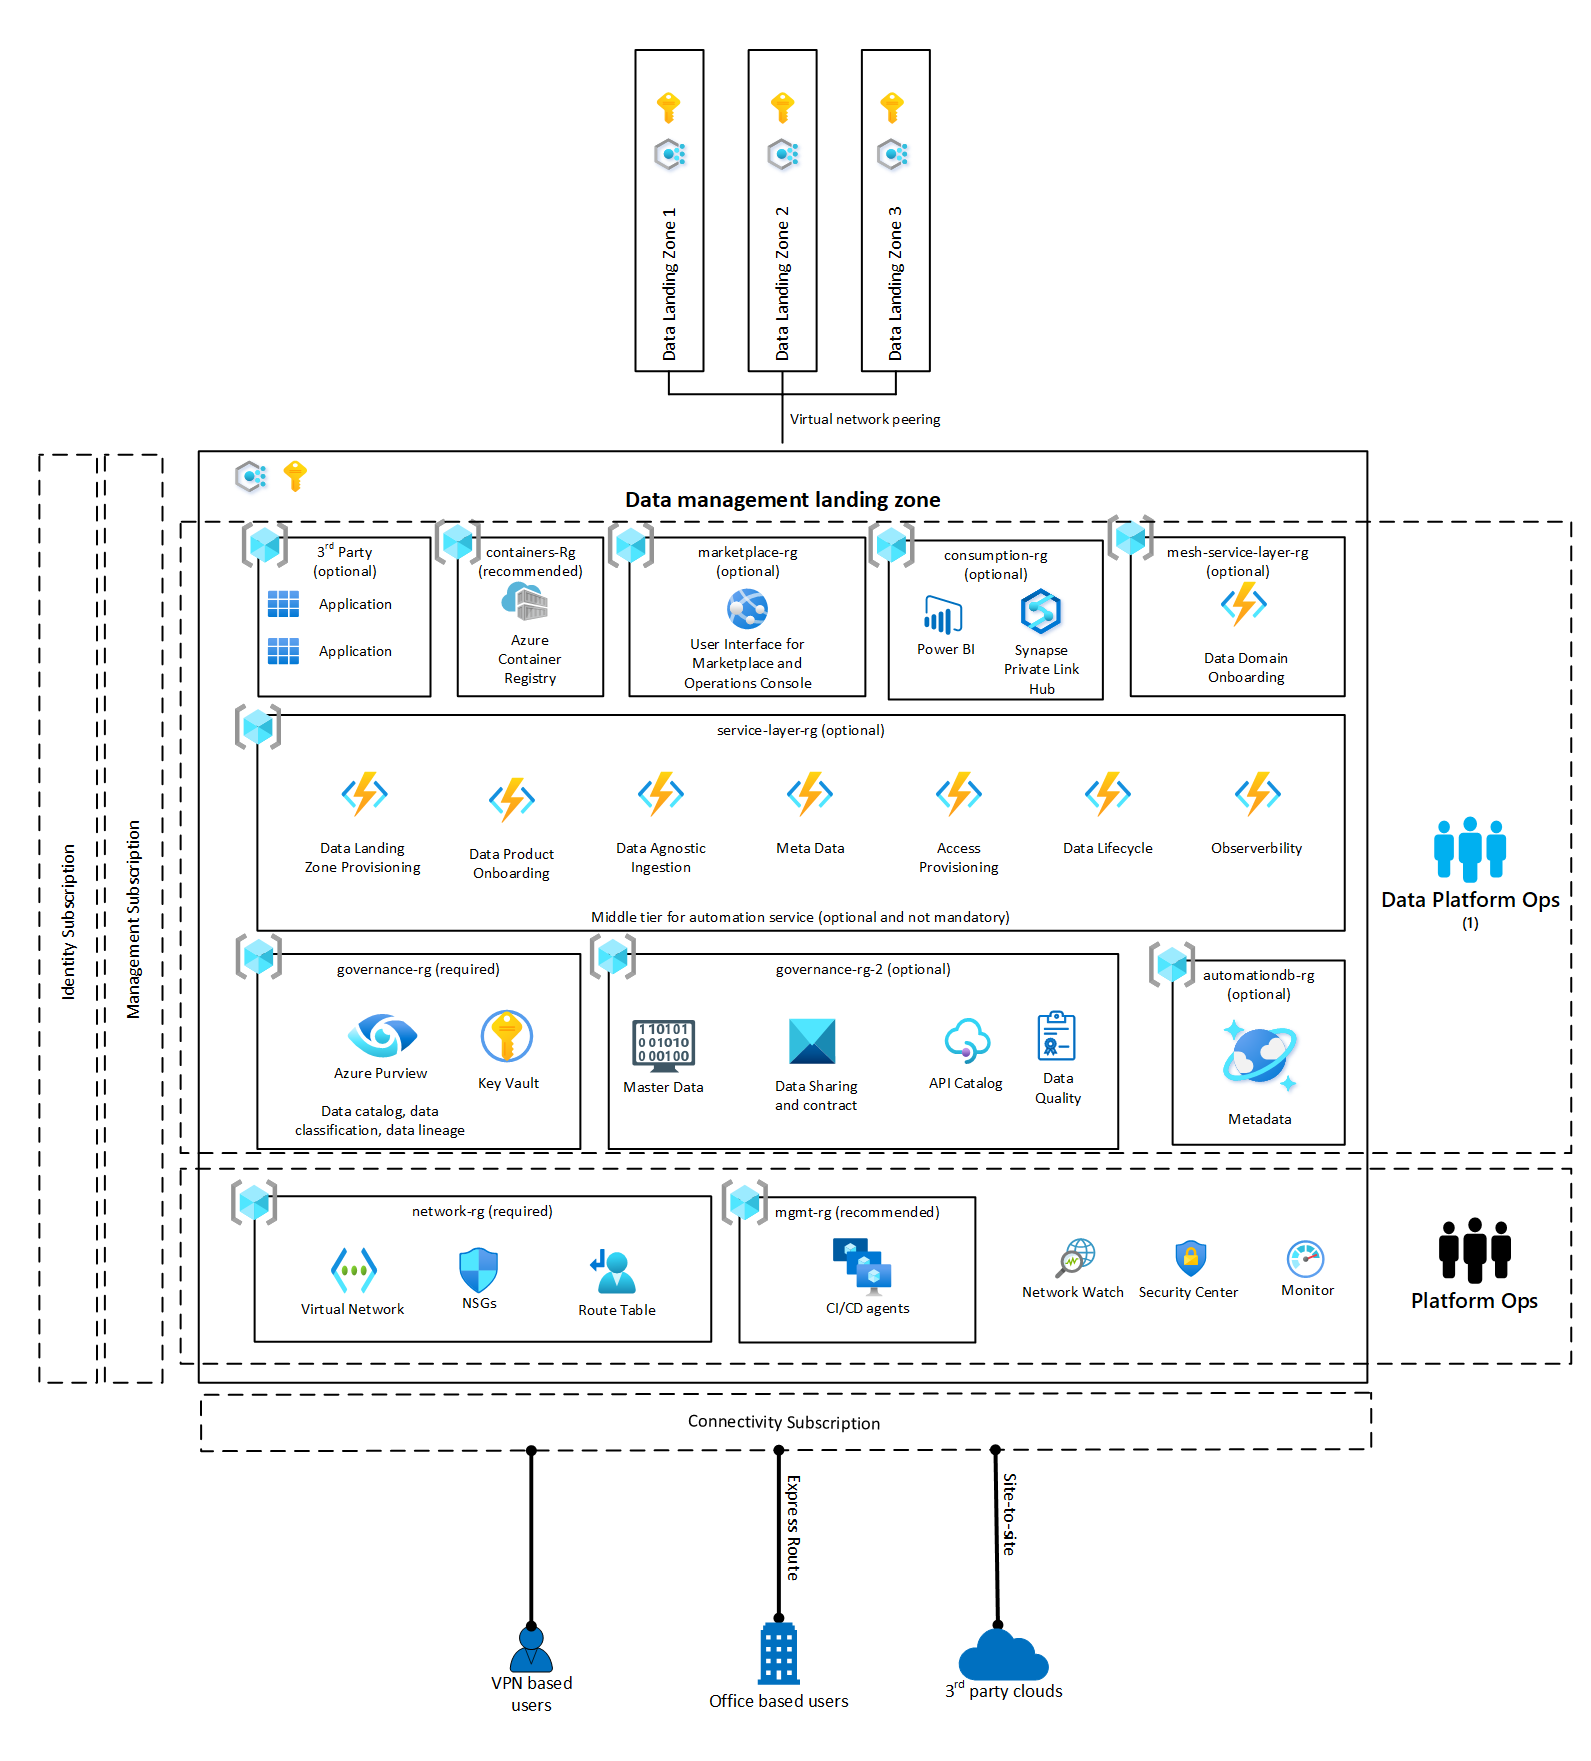
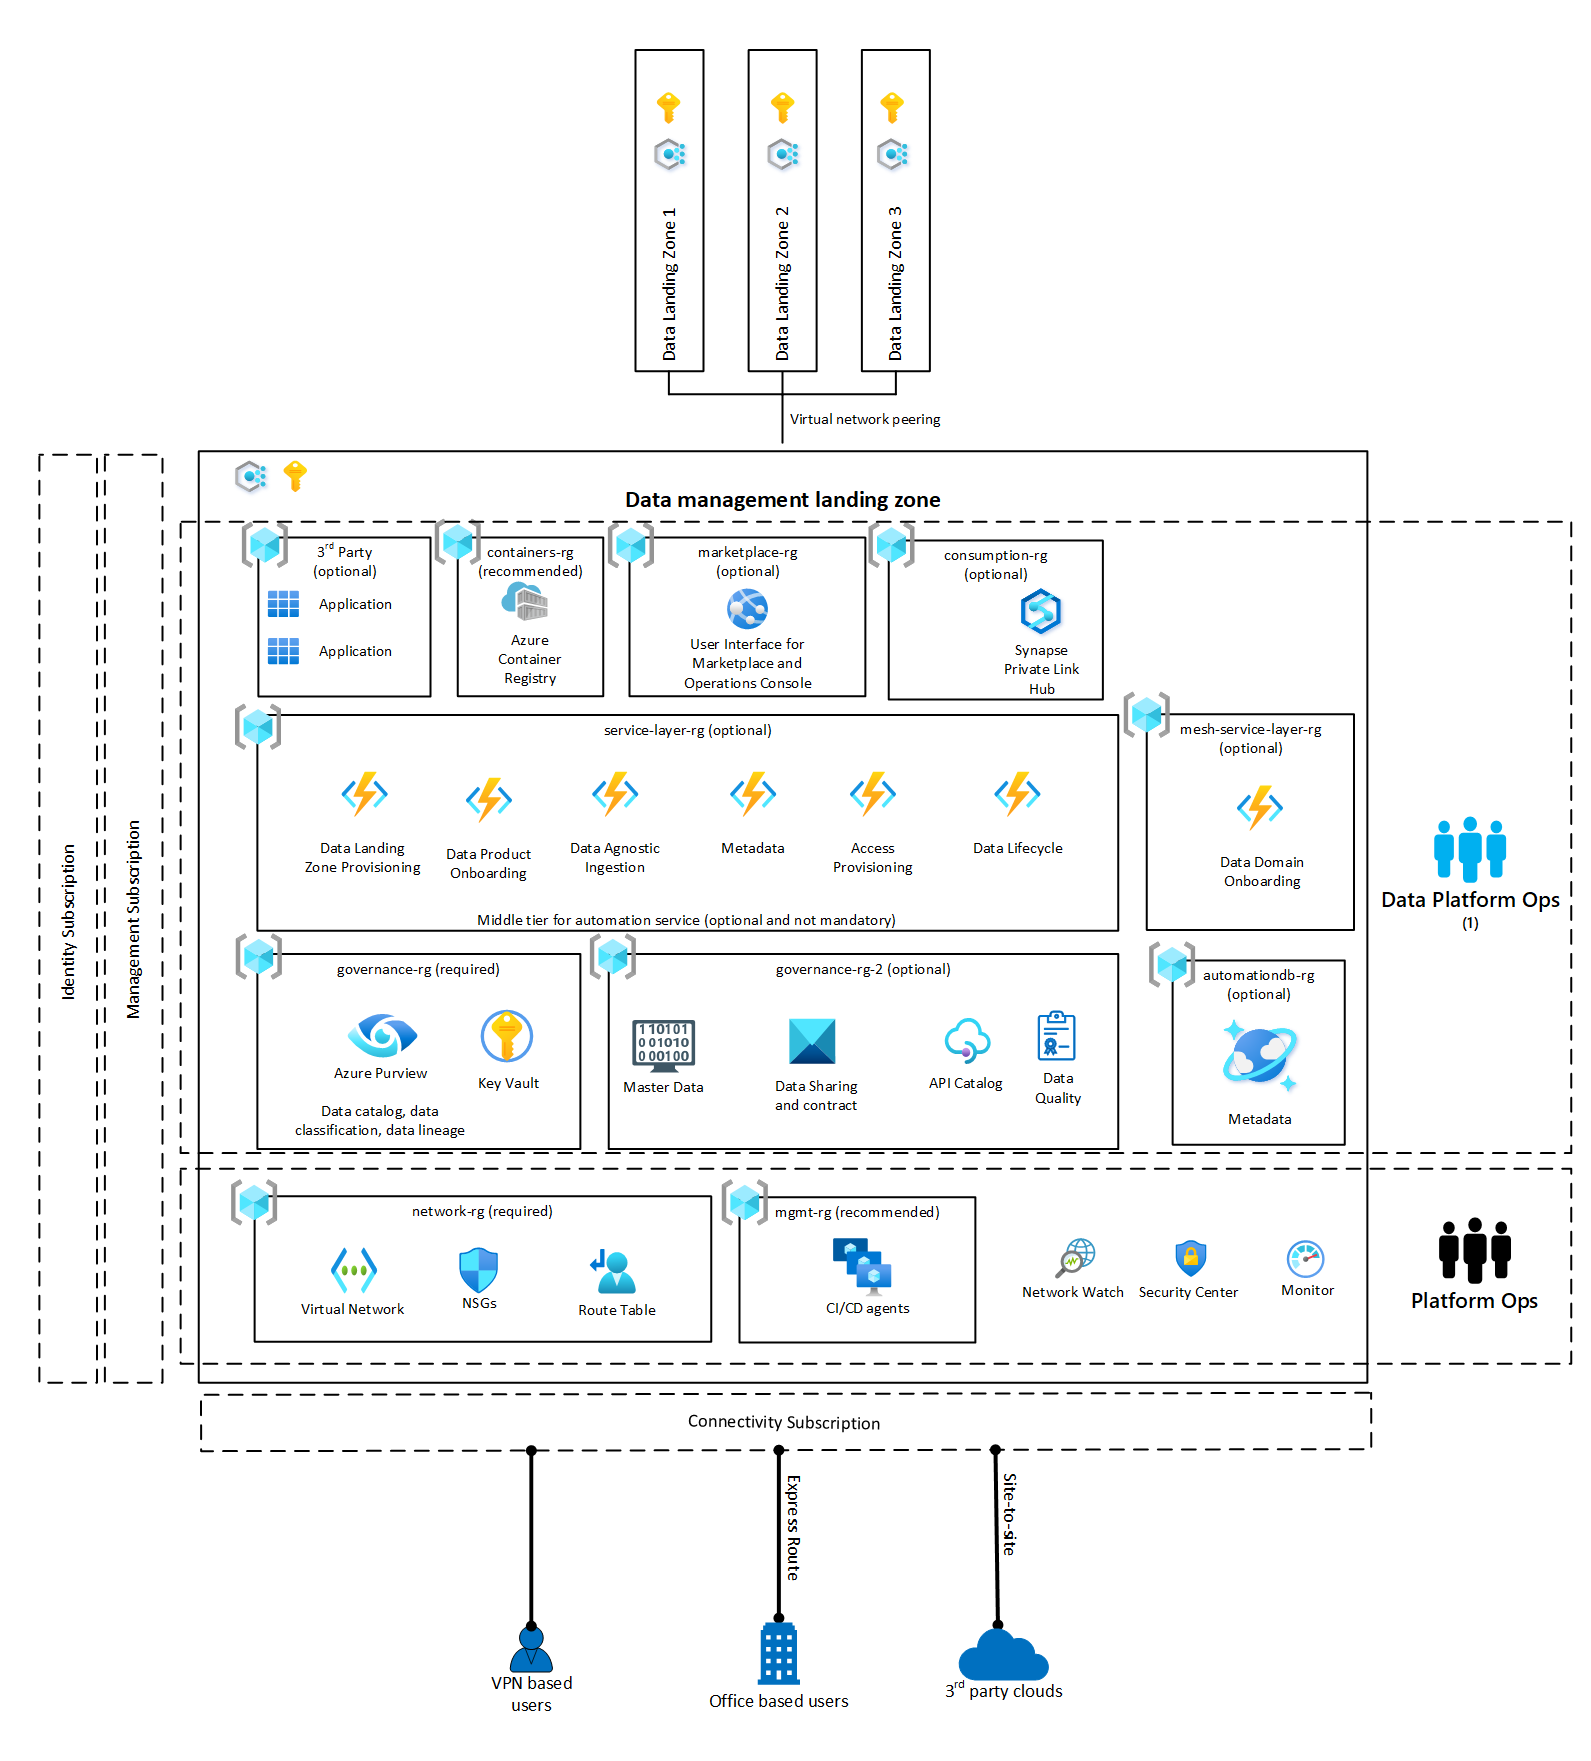
dmlz update

diff --git a/docs/scenarios/data-management/architectures/data-management-landing-zone.md b/docs/scenarios/data-management/architectures/data-management-landing-zone.md
@@ -25,9 +25,11 @@ The data management landing zone is a separate subscription that has the standar
 
 ## Data catalog
 
+*Resource group: governance-rg*
+
 [!INCLUDE [data-catalog](../includes/data-catalog.md)]
 
-- For more information, see [Data Catalog](../govern-data-catalog.md)
+For more information, see [Data Catalog](../govern-data-catalog.md)
 
 ## Data quality management
 
@@ -35,9 +37,11 @@ Enterprises are advised to continue with their current solution.
 
 Data quality should happen as close to the source as possible to avoid quality issues replicating across the analytics and AI estate. Moving quality metrics and validation to the data integration aligns the quality process with the teams that are closest to the data. These teams have the deepest understanding of the data asset. Data lineage also provides data quality confidence and should be provided for all data products and products.
 
-- For more information, see [Data quality](../govern-data-quality.md)
+For more information, see [Data quality](../govern-data-quality.md)
 
 ## Data modeling repository
+
+*Resource group: governance-rg2*
 
 Entity relationship models should be captured and stored in a central location, that is in the data management landing zone. It gives consumers of the data a single place to go for conceptual diagrams.
 
@@ -45,13 +49,17 @@ Entity relationship models should be captured and stored in a central location, 
 
 ## Master data management
 
+*Resource group: governance-rg2*
+
 Master data management control resides in the data management landing zone. For data mesh there are specific considerations to call out in [Master Data Management in Data Mesh](data-mesh-master-data-management.md)
 
 Many master data management solutions fully integrate with Azure Active Directory. The integration allows you to secure the data and provide different views for different user groups.
 
-- For more information, see [master data management system](../govern-master-data.md).
+For more information, see [master data management system](../govern-master-data.md).
 
 ## API catalog
+
+*Resource group: governance-rg2*
 
 It's likely that teams across the enterprise will create various APIs for their data platforms and products. These APIs can be difficult to discover across the organization. Placing an API catalog in the data management landing zone can help solve this problem.
 
@@ -59,22 +67,24 @@ The API catalog can help standardize documentation and offers a place for intern
 
 ## Data sharing and contracts
 
+*Resource group: governance-rg2*
+
 Data management and analytics scenario uses
 [Azure AD entitlement management](/azure/active-directory/governance/entitlement-management-overview) or Azure Purview policies to control access to sharing of data. Your enterprise still might require a sharing and contract repository. The repository is an organizational function. It should be in the data management landing zone.
 
 These contracts should give information on data validation, model, and security policies.
 
-- For more information, see [Data sharing agreements](../govern-data-sharing-agreements.md).
+For more information, see [Data sharing agreements](../govern-data-sharing-agreements.md).
 
 ## Container registry
 
+*Resource group: containers-rg*
+
 The data management landing zone hosts an Azure Container Registry. It allows the data platform operations to deploy standard containers for use in data science projects.
 
-## Global DNS
-
-Data management and analytics scenario uses Private Link, which relies on having a private DNS zone. Check with your networking team before deploying another private DNS as they might have already deployed the services.
-
 ## Azure Synapse Private Link hub
+
+*Resource group: consumption-rg*
 
 Azure Synapse Analytics Private Link hubs are Azure resources, which act as connectors between your secured network and the synapse studio web experience. Data management and analytics scenario uses the hubs to securely connect to Azure Synapse studio from your Azure Virtual Network using private links.
 
@@ -84,23 +94,29 @@ For more information, see [Connect to Azure Synapse studio using private links](
 
 ## Automation interfaces (optional)
 
-Data management and analytics scenario creates three resource groups to help with the creation of your custom onboarding solutions for your data estate.
+To augment the Data management and analytics scenario capabilities, some organization could decide to create a number of automation services to drive conformity and onboarding solutions for your data estate.
 
-Typically, user interfaces are in the "governance" resource group. The application layer and database are in `automation` and `automationdb`, respectively.
+> [!IMPORTANT]
+> None of these automation interfaces are products and neither do they illustrate a roadmap item. They are listed to help you consider items which you might want to automate.
 
-You could use these resource groups to host an application that creates data landing zones, data integrations, and data products. You could develop a logic application to capture feedback and route to the correct teams.
+If you decide to build these product it is recommended that you have a user interface which acts as both a data marketplace and operation console. The interface will rely on an underling metadata store which we have previously discussed in [Metadata Standards](../govern-metadata-standards.md).
 
-### Ingestion framework engine user interface
+The data marketplace, or operations console, would call a middle tier of functions to facilitate onboarding, metadata registration, security provisioning, data lifecycle and observability.
 
-If your enterprise has already developed an ingestion framework engine for automatically ingesting data based on registering metadata, which includes connection strings, path to copy data from and to, and ingestion schedule, we suggest this application should reside in the data management landing zone.
+The automationdb-rg resource group can be provisioned to host the metadata store.
 
-For example, you can implement the following workflow for an ingestion framework engine:
+### Services
 
-1. The ingestion engines framework UI is deployed to the data management landing zone.
-1. The application communicates with an Azure Data Factory SQL Database metastore in each data landing zone to create new data sources for ingestion for landing into the data landing zones.
-1. Once ingest requests have been approved, it will insert the source into the data management landing zone catalog via its API.
-1. The metadata would be used as a driver for Azure Data Factory jobs, and it will have most of the parameters required for running of jobs.
-1. ADF Master Pipeline will pull parameters from Metastore to land raw data lake, enrichment, with conformed data types, and creation of Hive View in Azure Databricks Metastore.
+| Service                        | Service Scope                                                                                                                                                                                                                                                                                     |
+|--------------------------------|---------------------------------------------------------------------------------------------------------------------------------------------------------------------------------------------------------------------------------------------------------------------------------------------------|
+| Data Landing Zone Provisioning | This service is responsible for creating a new data landing zone - it is unlikely to have a high usage but is included for completeness of an end-to-end onboarding solution  For more information, see [Provision the Azure data management and analytics scenario](../manage-provision-platform.md)                                        |
+| Data Product Onboarding        | This service exposes ability to create / amend resource groups pertaining to an onboarded tenant. Also capabilities to upgrade / degrade SKUs, activate / deactivate resource group for any onboarded tenant / service. It would create a new data landing zone DevOps. For more information, see [Provision the Azure data management and analytics scenario](../manage-provision-platform.md) |
+| Access Provisioning            | This service exposes the ability to create Access Packages, Access Policies, Asset access approval process(Manual/Auto) using SPN/UPN. This should also be able to expose an API to give the list of subscription requests (assets) that a user have been submitted in the last 90 days. For more information, see [Data Access Management](../security-provisioning.md)         |
+| Data Agnostic Ingestion        | The microservice communicates with an Azure Data Factory SQL Database metastore in each data landing zone to create new data sources for ingestion for landing into the data landing zones. For more information, see [How automated ingestion frameworks support data management and analytics scenario in Azure](../best-practices/automated-ingestion-pattern.md) |
+| Metadata                       | This service exposed and creates metadata for the platform. For more information, see [Metadata Standards](../govern-metadata-standards.md)                                                                                                                                                                                                            |
+| Data Lifecycle                 | Responsible for maintaining the data lifecycle based upon the metadata. This could include moving data to cold storage or deleted records which should no longer be held. For more information, see [What is Data Lifecycle Management?](../govern-lifecycle.md)                                                                                              |
+| Data Domain Onboarding         | ONLY APPLICABLE TO DATA MESH. This service exposes ability to capture metadata pertaining to new domain & onboard them to as needed. Also capabilities to create, update, activate / deactivate any domain / service line would be built into microservice. For more information, see [Provision the Azure data management and analytics scenario](../manage-provision-platform.md) |
+
 
 ## Next steps
 

diff --git a/docs/scenarios/data-management/includes/data-catalog.md b/docs/scenarios/data-management/includes/data-catalog.md
@@ -24,4 +24,4 @@ Data management and analytics scenario relies on [Azure Purview](/azure/purview/
 The data catalog can communicate with each data landing zone via its VNet peering and self-hosted integration runtimes since it's part of the data management landing zone. Discovery of data products in on-premises stores and other public clouds is achieved by more deployments of self-hosted integration runtimes.
 
 > [!NOTE]
-> Although this section of the documentation primarily focuses on using Azure Purview for data catalog capabilities combined with the data classification, labeling, and compliance policy enforcement capabilities of Azure Information Protection, we appreciate that many enterprises may have invested in other products such as Alation, Okera, and Collibra. If this is the case, work with your vendor to apply the principles described for a data management landing zone and get as close as you can. Be aware that some custom integration might be required.
+> Although this documentation primarily focuses on using Azure Purview for data catalog capabilities combined with the data classification, labeling, and compliance policy enforcement capabilities of Azure Information Protection, we appreciate that many enterprises could have invested in other products such as Alation, Okera, and Collibra. If this is the case, work with your vendor to apply the principles described for a data management landing zone and get as close as you can. Be aware that some custom integration might be required.

diff --git a/docs/scenarios/data-management/govern-lifecycle.md b/docs/scenarios/data-management/govern-lifecycle.md
@@ -24,7 +24,7 @@ In the data management and analytics scenario their are two ways to approach dat
 
 - Using the inbuilt data lifecycle features of each Azure service containing persisted data such as [Azure data lake](/azure/storage/blobs/lifecycle-management-overview). This is a great start for moving data to cold and archive tiers but fails to adhere to deleting of data after X amount of time.
 
-- Integrating data lifecycle as part of an onboarding process to give the application business owners the opportunity to define their data lifecycle policy. This process would involve a custom application which would capture key metrics into [metadata standards](govern-metadata-standards.md) per data product. Part of the custom process would handle moving data from hot to cold to archive and deleting of data after X amount of time. For more information, see [Automation Services](./govern-data-sharing-agreements.md).
+- Integrating data lifecycle as part of an onboarding process to give the application business owners the opportunity to define their data lifecycle policy. This process would involve a custom application which would capture key metrics into [metadata standards](govern-metadata-standards.md) per data product. Part of the custom process would handle moving data from hot to cold to archive and deleting of data after X amount of time.
 
 ## Next steps
 
